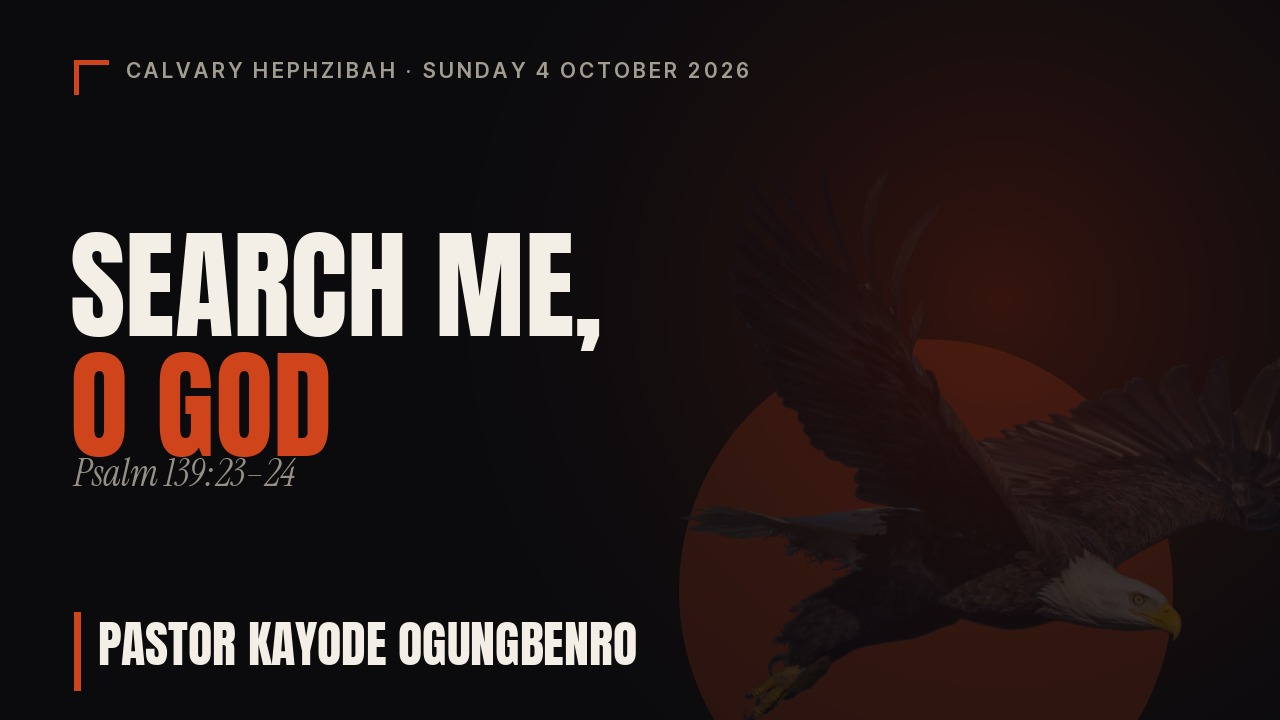
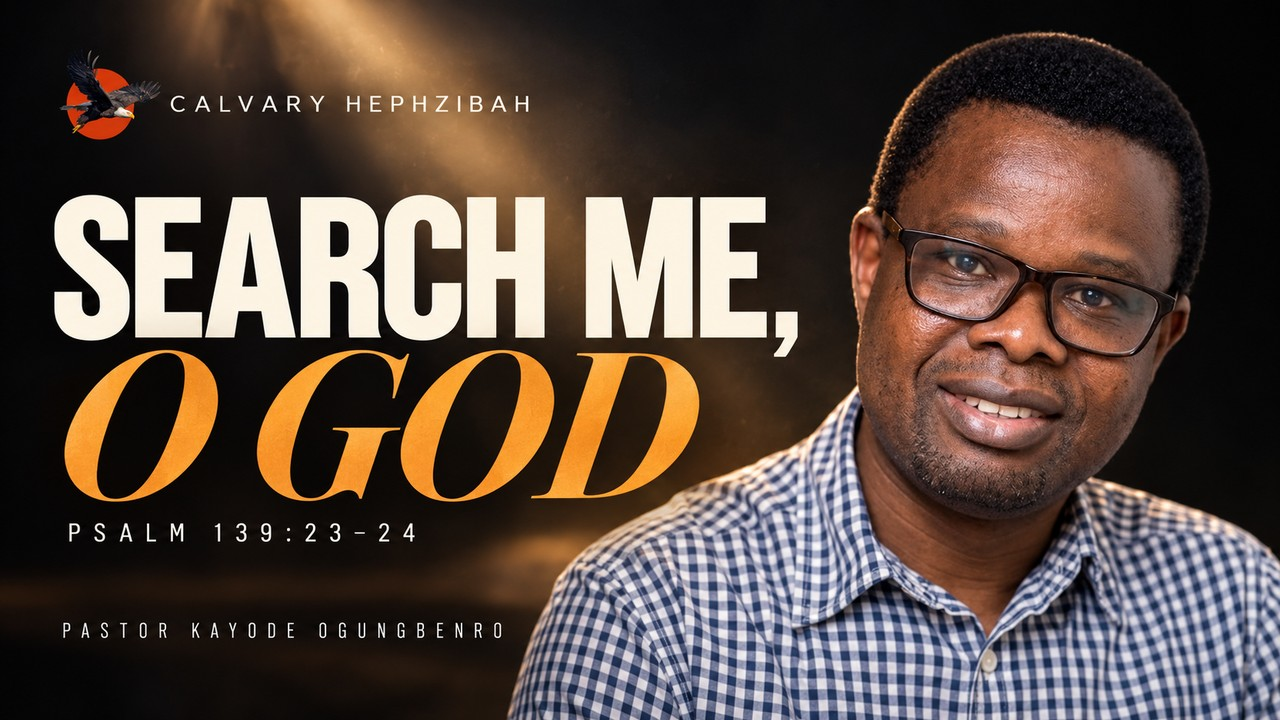
4 Oct 2026: ChatGPT sermon thumbnail (v=2)

diff --git a/media-briefing-04-oct-2026.html b/media-briefing-04-oct-2026.html
@@ -10,8 +10,8 @@
     <meta property="og:site_name" content="Calvary Hephzibah Full Gospel Church">
     <meta property="og:title" content="Run Sheet &middot; Sunday 4th October 2026">
     <meta property="og:description" content="Search Me, O GOD &middot; Pastor Kayode Ogungbenro. Order of service, worship set, scripture, and the media checklist.">
-    <meta property="og:image" content="https://calvaryhephzibah.co.uk/sermon-thumbnail-04-oct-2026.jpg?v=1">
-  <meta property="og:image:secure_url" content="https://calvaryhephzibah.co.uk/sermon-thumbnail-04-oct-2026.jpg?v=1">
+    <meta property="og:image" content="https://calvaryhephzibah.co.uk/sermon-thumbnail-04-oct-2026.jpg?v=2">
+  <meta property="og:image:secure_url" content="https://calvaryhephzibah.co.uk/sermon-thumbnail-04-oct-2026.jpg?v=2">
   <meta property="og:image:type" content="image/jpeg">
     <meta property="og:image:width" content="1280">
     <meta property="og:image:height" content="720">
@@ -20,7 +20,7 @@
     <meta name="twitter:card" content="summary_large_image">
     <meta name="twitter:title" content="Run Sheet &middot; Sunday 4th October 2026">
     <meta name="twitter:description" content="Search Me, O GOD &middot; Pastor Kayode Ogungbenro. Everything the media team needs before service.">
-    <meta name="twitter:image" content="https://calvaryhephzibah.co.uk/sermon-thumbnail-04-oct-2026.jpg?v=1">
+    <meta name="twitter:image" content="https://calvaryhephzibah.co.uk/sermon-thumbnail-04-oct-2026.jpg?v=2">
     <meta name="twitter:image:alt" content="Search Me, O GOD &middot; Pastor Kayode Ogungbenro, Sunday 4 October 2026">
     <link rel="preconnect" href="https://fonts.googleapis.com">
     <link rel="preconnect" href="https://fonts.gstatic.com" crossorigin>
@@ -274,7 +274,7 @@
             <div class="serm-preacher">Pastor Kayode Ogungbenro</div>
             <h3 class="serm-title">Search Me, O GOD</h3>
             <div style="font-size:13px;color:rgba(255,255,255,0.6);margin-bottom:14px;">Psalm 139:23–24 &middot; 2 Samuel 11:2–4</div>
-            <img src="sermon-thumbnail-04-oct-2026.jpg?v=1" width="1280" height="720" loading="lazy" decoding="async" alt="Pastor Kayode Ogungbenro — Search Me, O GOD" class="serm-thumb">
+            <img src="sermon-thumbnail-04-oct-2026.jpg?v=2" width="1280" height="720" loading="lazy" decoding="async" alt="Pastor Kayode Ogungbenro — Search Me, O GOD" class="serm-thumb">
             <div class="serm-note"><span>💡</span><span>Display sermon thumbnail for 30 seconds as Pastor Kayode Ogungbenro comes up to preach.</span></div>
         </div>
     </div>
